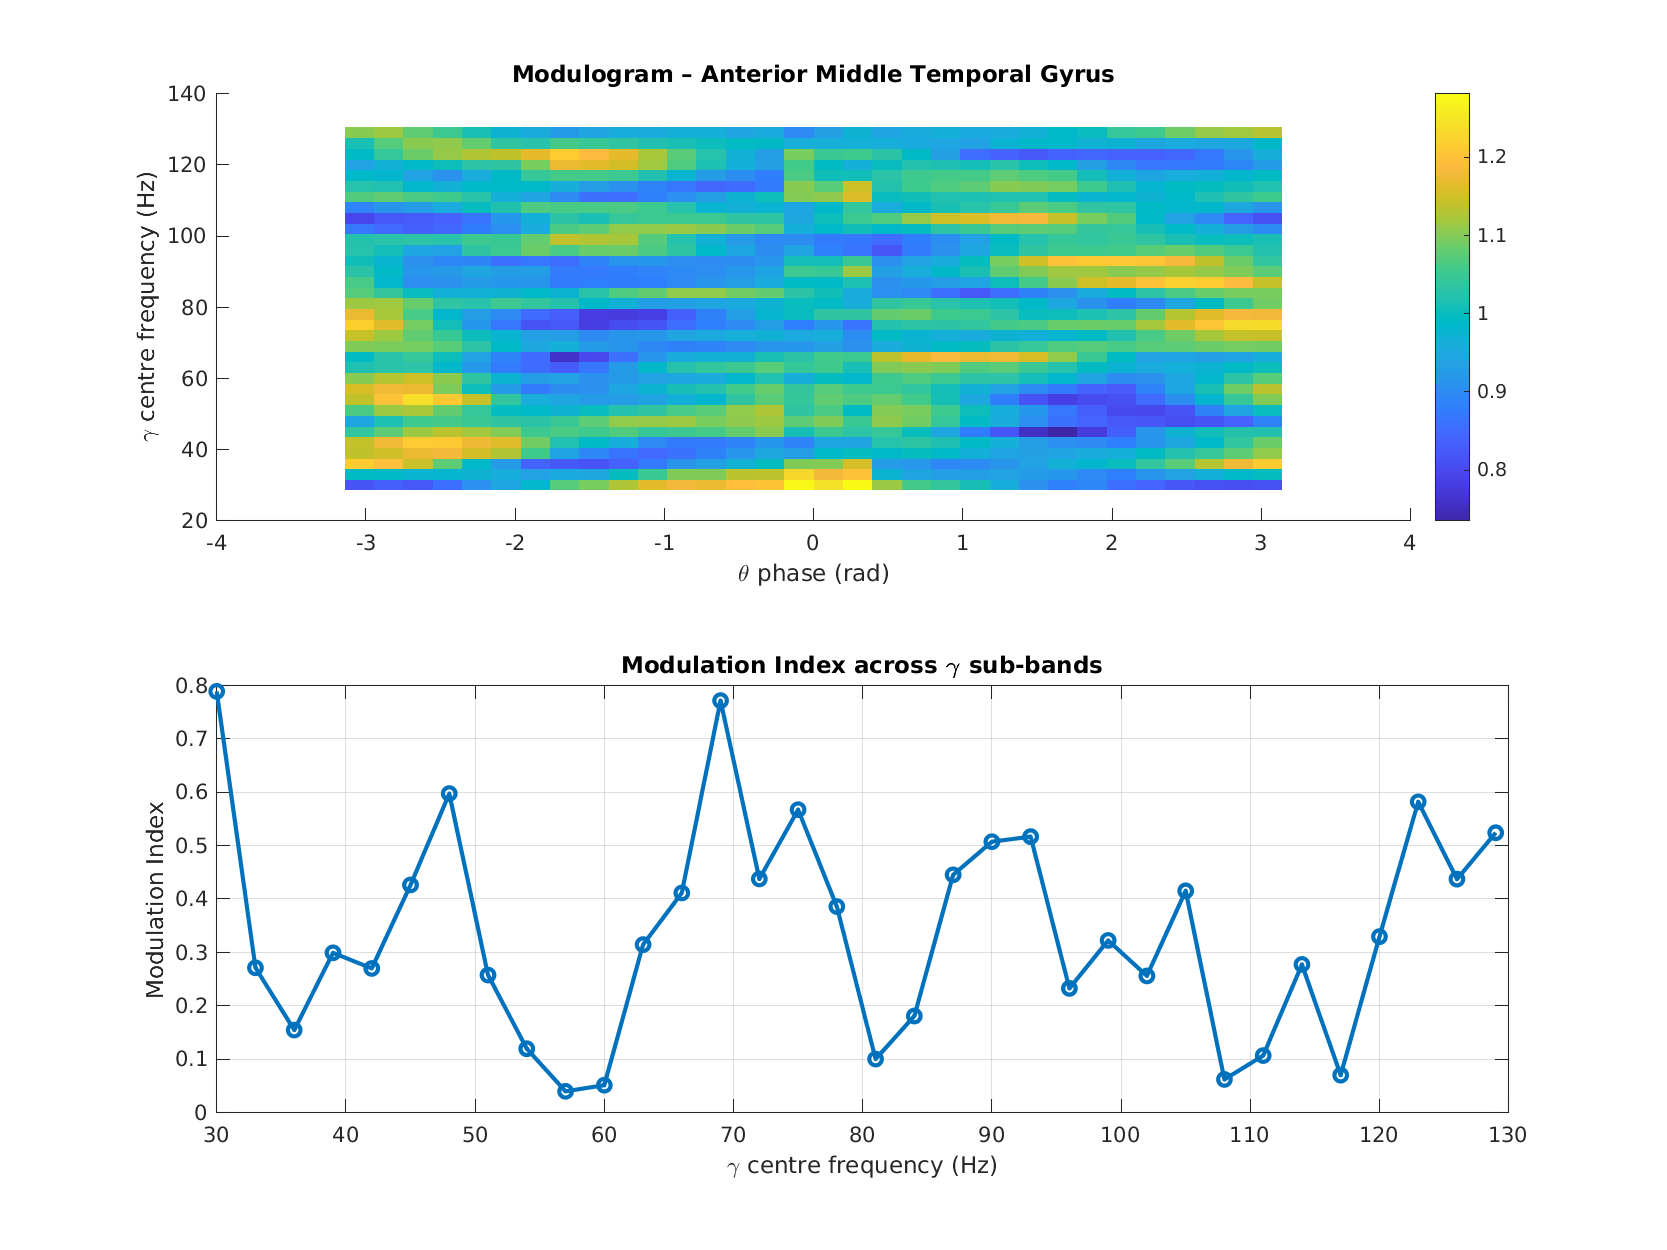
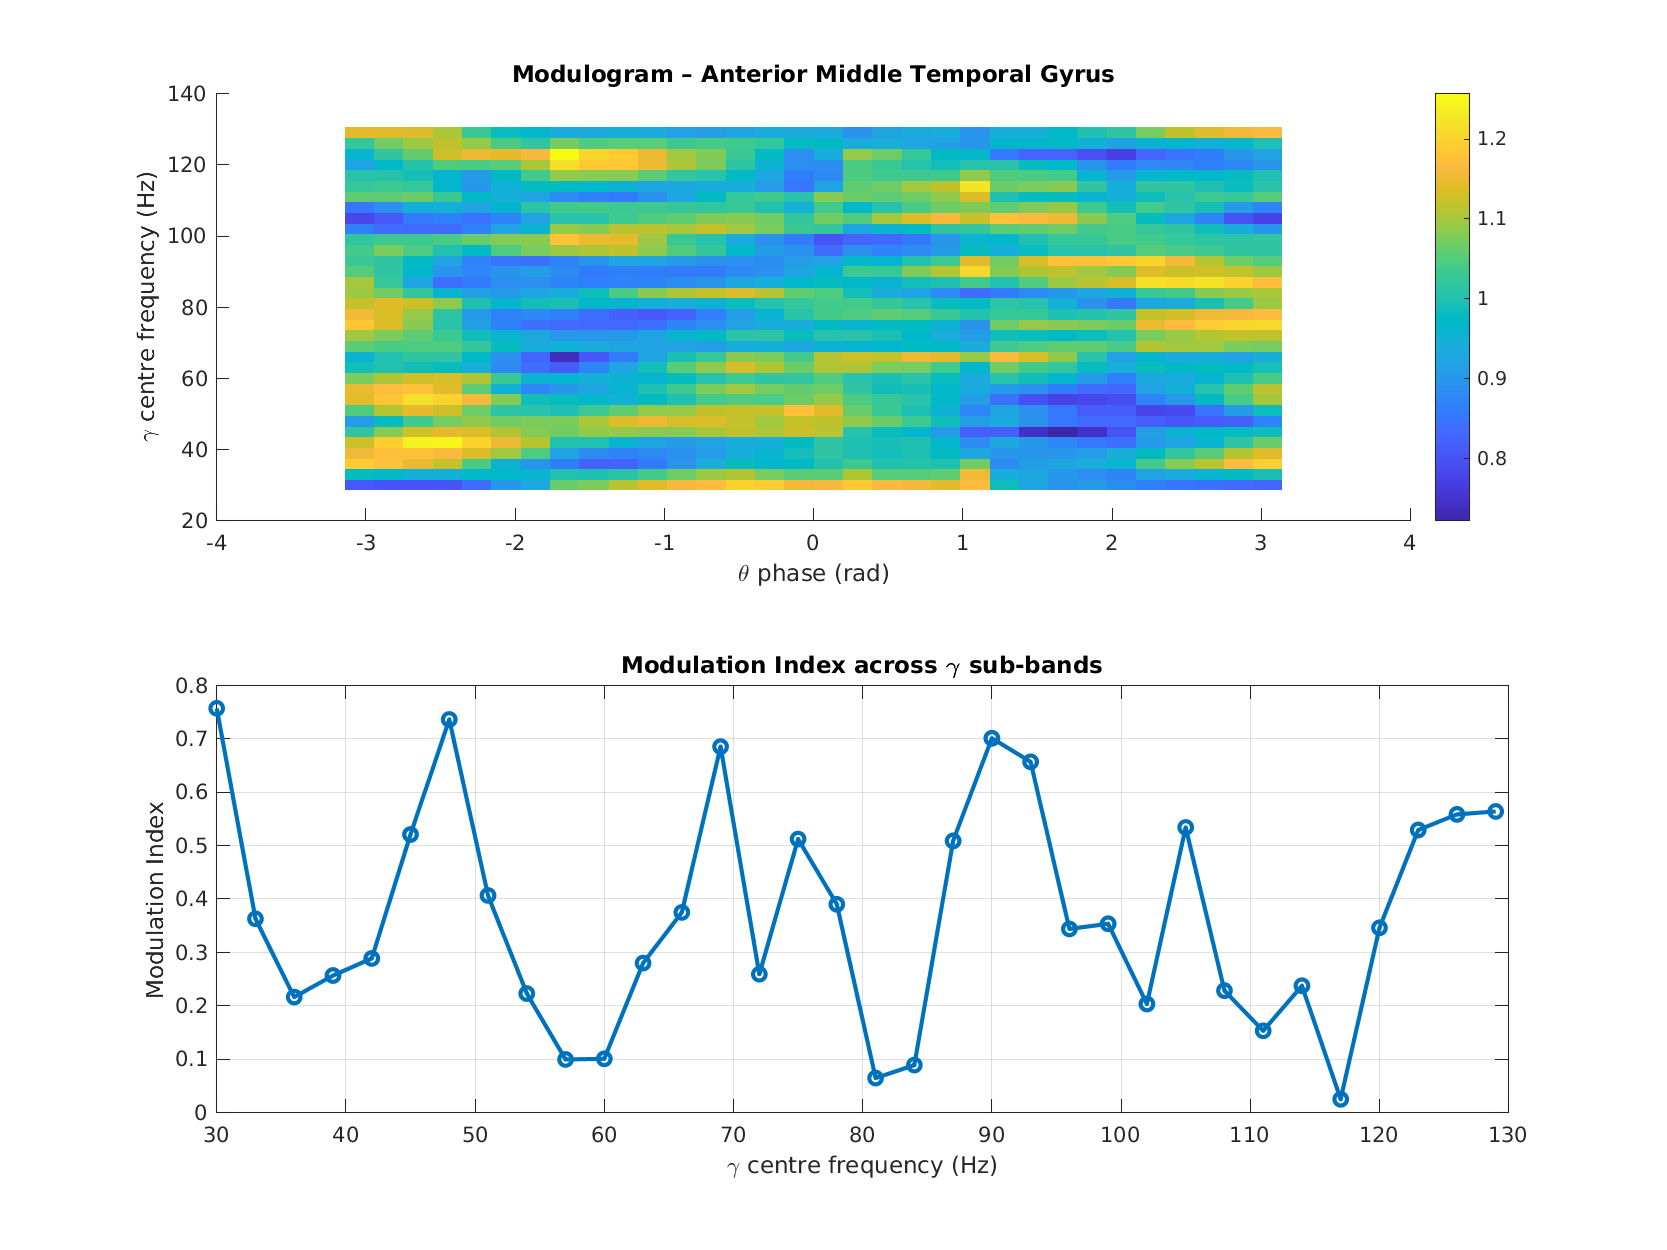
initilize trial run

diff --git a/modulogram_pipeline.m b/modulogram_pipeline.m
@@ -3,12 +3,6 @@ function modulogram_pipeline(config)
 %   MODULOGRAM_PIPELINE(CONFIG) loops over subjects and channels for a
 %   specified session and alignments. Helper functions live in src/.
 
-
-fprintf('\n==================== Pipeline Checkpoint 0 ====================\n');
-fprintf('[✓] Modulogram pipeline successfully executed for %s | Session %d\n', subjectID, sesnum);
-fprintf('=============================================================\n\n');
-
-
 % Ensure helper functions in the src directory are on the MATLAB path
 scriptDir = fileparts(mfilename('fullpath'));
 addpath(fullfile(scriptDir, 'src'));
@@ -17,11 +11,6 @@ addpath(fullfile(scriptDir, 'src'));
 if ~isfield(config, 'fir_order')
     config.fir_order = 1000;
 end
-
-
-fprintf('\n==================== Pipeline Checkpoint 1 ====================\n');
-fprintf('[✓] Modulogram pipeline successfully executed for %s | Session %d\n', subjectID, sesnum);
-fprintf('=============================================================\n\n');
 
 
 
@@ -92,7 +81,14 @@ fprintf('=============================================================\n\n');
             else
                 anatomicalRegion = 'Unknown';
             end
+
+                    fprintf('\n==================== Pipeline Checkpoint 4 ====================\n');
+                    fprintf('[✓] Modulogram pipeline successfully executed for %s | Session %d\n', subjectID, sesnum);
+                    fprintf('=============================================================\n\n');
             modStruct = create_single_modulogram(config, subjectID, sesnum, channelLabel, alignment, Fs, filters, trial_times, trial_words, anatomicalRegion);
+                    fprintf('\n==================== Pipeline Checkpoint 5 ====================\n');
+                    fprintf('[✓] Modulogram pipeline successfully executed for %s | Session %d\n', subjectID, sesnum);
+                    fprintf('=============================================================\n\n');
             if isempty(modStruct)
                 fprintf('    No valid trials for %s, Session %d, Channel %s\n', subjectID, sesnum, channelLabel);
                 continue;

diff --git a/execute2.m b/execute2.m
@@ -1,15 +1,14 @@
 % Example configuration and execution script
-config.subjects = {'EMU024','EMU001','EMU025','EMU030','EMU036','EMU037',...
-    'EMU038','EMU039','EMU040','EMU041','EMU047','EMU051'};
+config.subjects = {'EMU024','EMU001','EMU025','EMU030'};
 config.sessionNum = 1;
-config.alignments = {'win'};
+config.alignments = {'win', 'loss'};
 config.dataDir = '/media/Data/Human_Intracranial_MAD';
 config.reference = 'Ground';
 config.resultsDir = '/home/alabwam1/Desktop/modulogram_V7/filter-2';
-config.modulatedRange = [30 130];
+config.modulatedRange = [30 100];
 config.modWaveRanges.Theta = [4 8];
-config.bandwidth = 7.5;
-config.numBins = 32;
-config.windowParams = struct('window',[0.7 0.7], 'excludeOutOfBounds', true);
+config.bandwidth = 10;
+config.numBins = 16;
+config.windowParams = struct('window',[0 1], 'excludeOutOfBounds', true);
 
 modulogram_pipeline(config);
